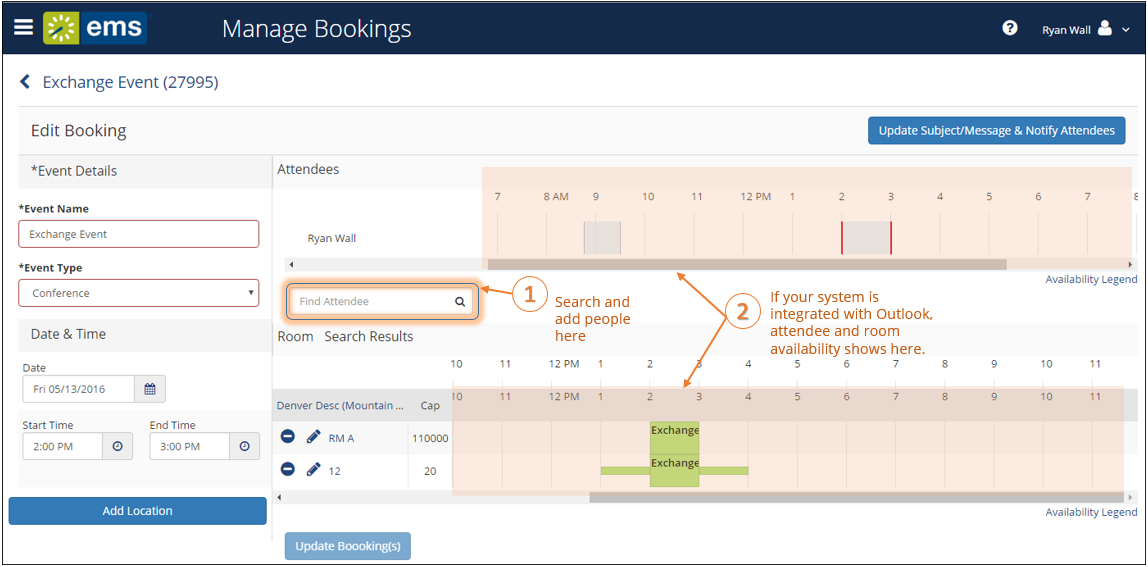
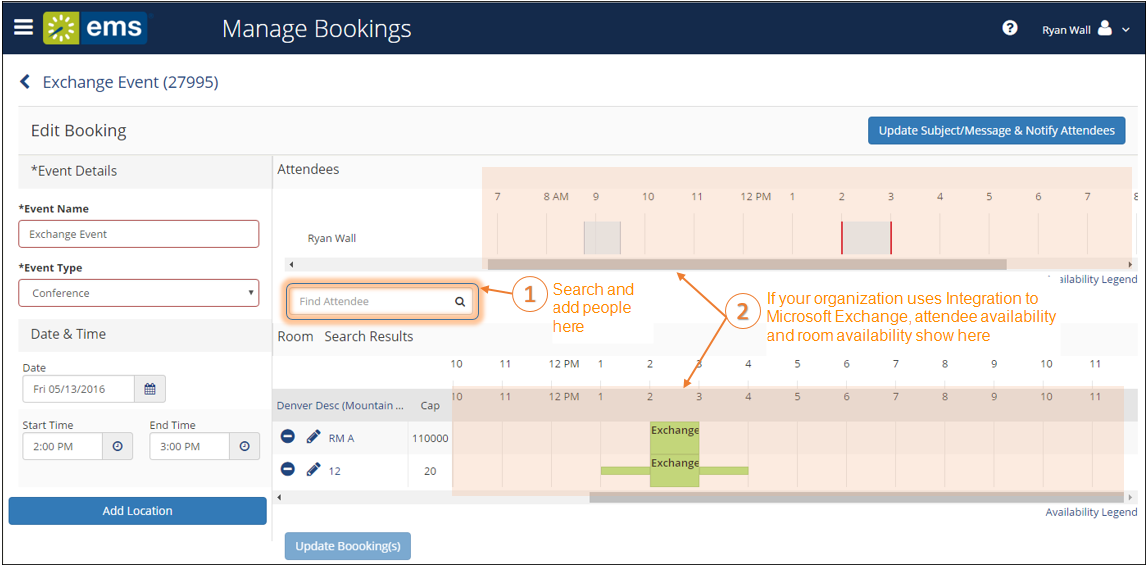
Commit of Content/WebApp/A_V44.1/C_UserGuide/Images/WebApp_User/Making a Reservation in the_2.png,Content/WebApp/A_V44.1/C_UserGuide/Images/WebApp_User/Making a Reservation in the_2.png.props,Content/WebApp/A_V44.1/C_UserGuide/WebApp_MakingaResv.html

Changed region(s): [[0.6707, 0.5097, 0.9146, 0.6296], [0.4573, 0.4797, 0.5488, 0.5996]]

diff --git a/Content/WebApp/A_V44.1/C_UserGuide/WebApp_MakingaResv.html b/Content/WebApp/A_V44.1/C_UserGuide/WebApp_MakingaResv.html
@@ -1,5 +1,5 @@
 <?xml version="1.0" encoding="utf-8"?>
-<html xmlns:MadCap="http://www.madcapsoftware.com/Schemas/MadCap.xsd" MadCap:lastBlockDepth="8" MadCap:lastHeight="7397" MadCap:lastWidth="839" style="mc-master-page: url('..\..\..\Resources\MasterPages\EMSWebApp.flmsp');" MadCap:onlyLocalStylesheets="False">
+<html xmlns:MadCap="http://www.madcapsoftware.com/Schemas/MadCap.xsd" style="mc-master-page: url('..\..\..\Resources\MasterPages\EMSWebApp.flmsp');" MadCap:onlyLocalStylesheets="False">
     <head><title>Create a Reservation in the EMS Web App</title>
     </head>
     <body>
@@ -24,8 +24,8 @@
                 </ul>
             </li>
         </ul>
-        <div class="note-box note">
-            <p>Note: For a conceptual overview, be sure to review the following:</p>
+        <div class="box-note">
+            <p><span class="boldAllCaps">Note:</span> For a conceptual overview, be sure to review the following:</p>
             <ul class="unorder-list">
                 <li><a href="WebApp_ReservBookingsBookingDetails.htm">Reservations, Bookings, and Booking Details</a>
                 </li>
@@ -39,32 +39,32 @@
         </div>
         <h2><a name="Create_a_Reservation"></a>Create a Reservation</h2>
         <ol class="number-list">
-            <li>You can begin making a reservation by clicking the <span class="bold">CREATE A RESERVATION</span> option (on the left menu) or the&#160;<span class="bold">Book&#160;Now</span> button next to one of your reservation templates (on the right).<p><img src="Images/WebApp_User/Making a Reservation in the.png" /></p></li>
-            <li>Next, the Create a Reservation screen appears, where EMS Web App&#160;will lead you through the reservation process.&#160;Enter information&#160;(including all required fields) using the&#160;<span class="bold">Next&#160;Step</span> button to advance through the process.<p><img src="Images/WebApp_User/Booking a Desk or Workspace_4.png"></img></p></li>
+            <li>You can begin making a reservation by clicking the <span class="bold">CREATE A RESERVATION</span> option (on the left menu) or the&#160;<span class="bold">Book&#160;Now</span> button next to one of your reservation templates (on the right).<p><img src="Images/WebApp_User/Making a Reservation in the.png" class="PDFlarge" /></p></li>
+            <li>Next, the Create a Reservation screen appears, where EMS Web App&#160;will lead you through the reservation process.&#160;Enter information&#160;(including all required fields) using the&#160;<span class="bold">Next&#160;Step</span> button to advance through the process.<p><img src="Images/WebApp_User/Booking a Desk or Workspace_4.png" class="PDFlarge"></img></p></li>
         </ol>
         <h3><a name="Specify_When_and_Where"></a>Specify When and Where</h3>
         <ol start="1" class="number-list">
             <li>To specify&#160;<span class="italics">When</span>, select&#160;dates, times, recurrence (optional), and time&#160;zone for the reservation in the upper left panel.</li>
-            <li>To specify&#160;<span class="italics">Where</span>, in lower left panel, select one of the following:<ul start="1" class="unorder-list"><li><span class="bold">Let Me&#160;<a href="WebApp_SearchingforAvailableRooms.html">Search for a&#160;Room</a></span><p>OR</p></li><li><span class="bold">I Know What Room I Want</span></li></ul><div class="note-box tip"><p>Tip: Filters in this lower left panel help you narrow your Room Search Results. When you click <span class="bold">Search</span>, results appear on the right. From these results, you can view expanded Room Details by clicking on the room name.</p><p>Locating space as part of the reservation process is different than browsing locations. See Also: <a href="WebApp_SearchingforAvailableRooms.html">Search for Available Rooms</a></p></div><div class="note-box tip"><p>Tip: Once you have <a href="WebApp_SettingFavoriteRooms.html">established favorites</a>, EMS Web App uses these (plus the parameters of the booking template in use) to filter your search results when you use the <span class="bold">Let Me Search For A Room</span> option. To expand your search results beyond your favorites, de-select the Favorite rooms only checkbox or click <span class="bold">Add/Remove</span>  next to <span class="bold">Locations</span>.</p><p><img src="Images/WebApp_User/Making a Reservation in the_1.png"></img></p></div></li>
-            <li>Once you have located a room to reserve, click the&#160;Add&#160;(<span class="bold">+</span>)icon to add&#160;the booking to your cart. You can delete or change the room before finalizing your Reservation.<div class="note-box tip"><p>Tip:&#160;If you are booking video conferences or multiple rooms,&#160;see <a href="WebApp_BookingVCRoom.html">Book a Video Conference Room</a>&#160;and&#160;<a href="WebApp_BookingMultipleRooms.html">Book Multiple Rooms</a>.&#160;Then, skip to Step 6.</p></div></li>
+            <li>To specify&#160;<span class="italics">Where</span>, in lower left panel, select one of the following:<ul start="1" class="unorder-list"><li><span class="bold">Let Me&#160;<a href="WebApp_SearchingforAvailableRooms.html">Search for a&#160;Room</a></span><p>OR</p></li><li><span class="bold">I Know What Room I Want</span></li></ul><div class="box-tip"><p><span class="boldAllCaps">Tip:</span> Filters in this lower left panel help you narrow your Room Search Results. When you click <span class="bold">Search</span>, results appear on the right. From these results, you can view expanded Room Details by clicking on the room name.</p><p>Locating space as part of the reservation process is different than browsing locations. See Also: <a href="WebApp_SearchingforAvailableRooms.html">Search for Available Rooms</a></p></div><div class="box-tip"><p><span class="boldAllCaps">Tip:</span> Once you have <a href="WebApp_SettingFavoriteRooms.html">established favorites</a>, EMS Web App uses these (plus the parameters of the booking template in use) to filter your search results when you use the <span class="bold">Let Me Search For A Room</span> option. To expand your search results beyond your favorites, de-select the Favorite rooms only checkbox or click <span class="bold">Add/Remove</span>  next to <span class="bold">Locations</span>.</p><p><img src="Images/WebApp_User/Making a Reservation in the_1.png" class="PDFsmall"></img></p></div></li>
+            <li>Once you have located a room to reserve, click the&#160;Add&#160;(<span class="bold">+</span>)icon to add&#160;the booking to your cart. You can delete or change the room before finalizing your Reservation.<div class="box-tip"><p><span class="boldAllCaps">Tip:</span>&#160;If you are booking video conferences or multiple rooms,&#160;see <a href="WebApp_BookingVCRoom.html">Book a Video Conference Room</a>&#160;and&#160;<a href="WebApp_BookingMultipleRooms.html">Book Multiple Rooms</a>.&#160;Then, skip to Step 6.</p></div></li>
         </ol>
         <h3><a name="Specify_Who_and_What"></a>Specify Who and What</h3>
         <ol start="4" class="number-list">
-            <li>In the Attendees&#160;area&#160;(near the center of the screen), specify headcount and attendees.<p><img src="Images/WebApp_User/Making a Reservation in the_2.png" /></p><ul start="4"><li>If your organization uses EMS for Outlook, you will use the Attendees section to&#160;add or remove attendees and send them invitations or notifications. Attendees can be individuals,&#160;mailing lists or groups. To see who is in a mailing list or group,&#160;expand it.&#160;This&#160;feature lets&#160;you&#160;view attendees' availability and add or subtract them from the event.</li><li>If your organization does not use EMS for Outlook, you will see a list of EMS Web App users and groups, but you do&#160;not&#160;see a&#160;calendar grid showing their availability.</li></ul><div class="note-box tip"><p>Tip: Adding attendees to an event is different than browsing people. For detailed instructions on using the BROWSE PEOPLE option from the main menu. See Also: <a href="WebApp_LocatingPeople.html">Searching for People</a>.</p></div><div class="note-box tip"><p>Tip: If available, select a <span class="bold">Setup Type</span> (if available) for the reservation; this associates likely services and features with bookings.</p></div></li>
+            <li>In the Attendees&#160;area&#160;(near the center of the screen), specify headcount and attendees.<p><img src="Images/WebApp_User/Making a Reservation in the_2.png" class="PDFlarge" /></p><ul start="4"><li>If your organization has configured Integration to Microsoft Exchange in the EMS&#160;software, from the Attendees section in the EMS&#160;Web App, you will be able to&#160;add or remove attendees and view attendee availability in the calendar grid.  Attendees can be individuals,&#160;mailing lists, or groups. To see who is in a mailing list or group,&#160;add the list or group and click the (+) symbol in the calendar grid.&#160;</li><li>If your organization does not use Integration to Microsoft Exchange, you will see a list of EMS Web App users and groups, but you will&#160;not&#160;see a&#160;calendar grid showing their availability.</li></ul><div class="box-tip"><p><span class="boldAllCaps">Tip: </span>Adding attendees to an event is different than browsing people. For detailed instructions on using the BROWSE PEOPLE option from the main menu. See Also: <a href="WebApp_LocatingPeople.html">Searching for People</a>.</p></div><div class="box-tip"><p><span class="boldAllCaps">Tip:</span> If available, select a <span class="bold">Setup Type</span> (if available) for the reservation; this associates likely services and features with bookings.</p></div></li>
             <li>Once you&#160;complete&#160;all required fields on this tab, click&#160;<span class="bold">Next&#160;Step</span> in the upper-right corner.</li>
         </ol>
         <h4><a name="Choose_Services_(Optional)"></a>Choose Services (Optional)</h4>
-        <div class="note-box note">
-            <p>Note: Choose Services is an optional feature based on the booking template you use. Services include room setup and teardown, equipment, and any other services you wish to associate with a room. Your Administrator sets which services can be associated with a room and with an event type.</p>
+        <div class="box-note">
+            <p><span class="boldAllCaps">Note:</span> Choose Services is an optional feature based on the booking template you use. Services include room setup and teardown, equipment, and any other services you wish to associate with a room. Your Administrator sets which services can be associated with a room and with an event type.</p>
         </div>
         <ol start="6" class="number-list">
-            <li>Under the&#160;<span class="bold">Services&#160;</span>tab in the Create Reservation screen, specify any services you wish to associate with the reservation (if available, you can&#160;click&#160;<span class="bold">Skip Services</span>). The example below showing a workspace booking&#160;may differ from your administrator settings, such as catering options and billing.<p><img src="Images/WebApp_User/Making a Reservation in the_3.png"></img></p></li>
+            <li>Under the&#160;<span class="bold">Services&#160;</span>tab in the Create Reservation screen, specify any services you wish to associate with the reservation (if available, you can&#160;click&#160;<span class="bold">Skip Services</span>). The example below showing a workspace booking&#160;may differ from your administrator settings, such as catering options and billing.<p><img src="Images/WebApp_User/Making a Reservation in the_3.png" class="PDFlarge"></img></p></li>
             <li>When complete, click&#160;<span class="bold">Next&#160;Step</span> in the upper right corner.&#160;</li>
         </ol>
         <h3><a name="Finalize_Reservation_Details"></a>Finalize Reservation Details&#160;</h3>
         <p>The Reservation Details screen finalizes information about your reservation. Invitations to bookings and attachments will be sent to all attendees.&#160;The example shown below may differ from your implementation. For an in-depth overview of this part of the booking process,&#160;see&#160;<a href="WebApp_AddingReservationDetails.htm">Add Reservation Details</a>.</p>
         <ol start="8" class="number-list">
-            <li>Complete all required information. Then click&#160;<span class="bold">Save Reservation Details</span> and <span class="bold">Create Reservation</span>.<p><img src="Images/WebApp_User/Making a Reservation in the_5.png"></img></p><div class="note-box tip"><p>Tip: To add the reservation to your Outlook calendar, click the <span class="bold">Add this reservation to my calendar</span> checkbox at the bottom of the window.</p></div></li>
+            <li>Complete all required information. Then click&#160;<span class="bold">Save Reservation Details</span> and <span class="bold">Create Reservation</span>.<p><img src="Images/WebApp_User/Making a Reservation in the_5.png" class="PDFlarge"></img></p><div class="box-tip"><p><span class="boldAllCaps">Tip: </span>To add the reservation to your Outlook calendar, click the <span class="bold">Add this reservation to my calendar</span> checkbox at the bottom of the window.</p></div></li>
         </ol>
         <h3><a name="EMS_for_Outlook®_(Optional_Capability)"></a>EMS for Outlook® (Optional Capability)</h3>
         <p>EMS for Outlook<sup>®</sup> is an optional (extra cost) purchase. If your organization has purchased it, then you will see the EMS plugin icon in your Outlook application. You will also see additional features and functionality in EMS. Furthermore, anywhere that you see people or groups in EMS, you will have access to everyone in your organization's email database (which is stored in Exchange Server). This means that you can see people's availability (Out of Office, Busy, In a Meeting, etc.), send them email invitations or notices, and add EMS events to your Outlook calendar.</p>
